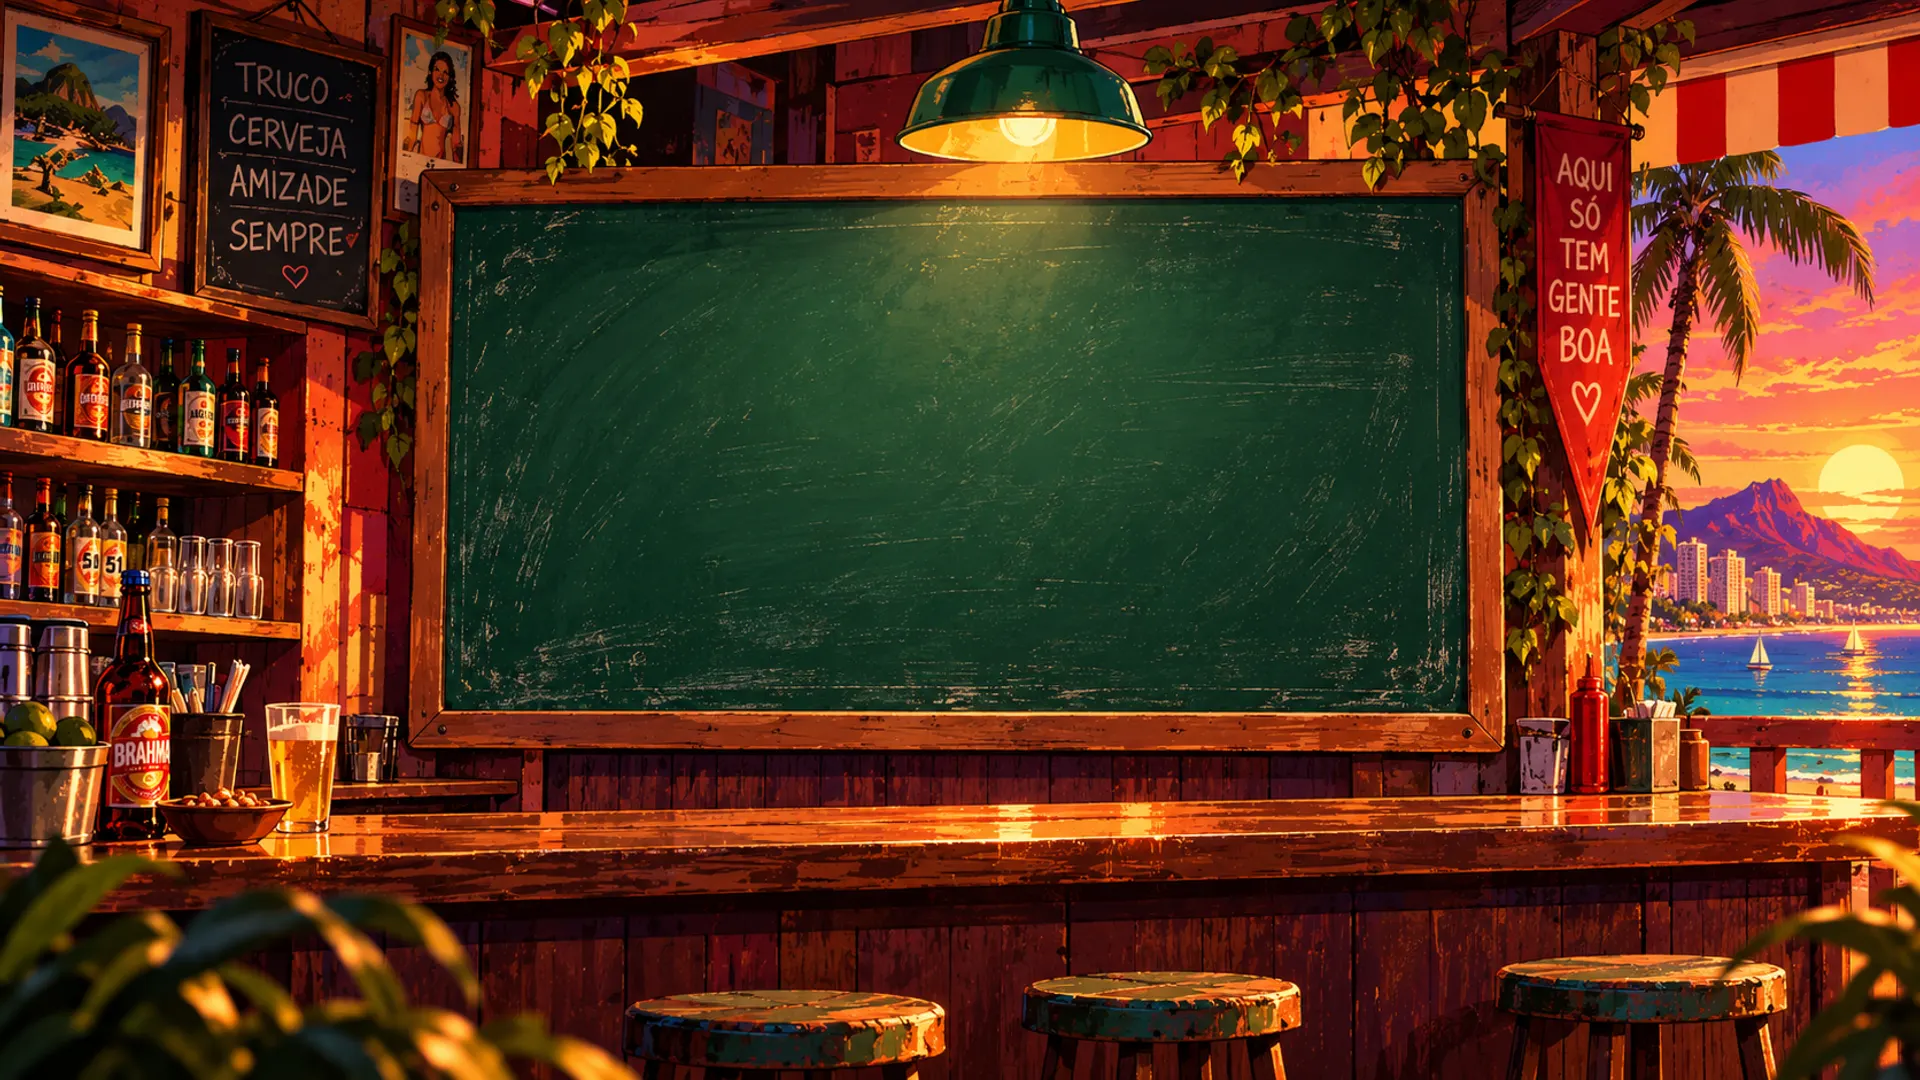
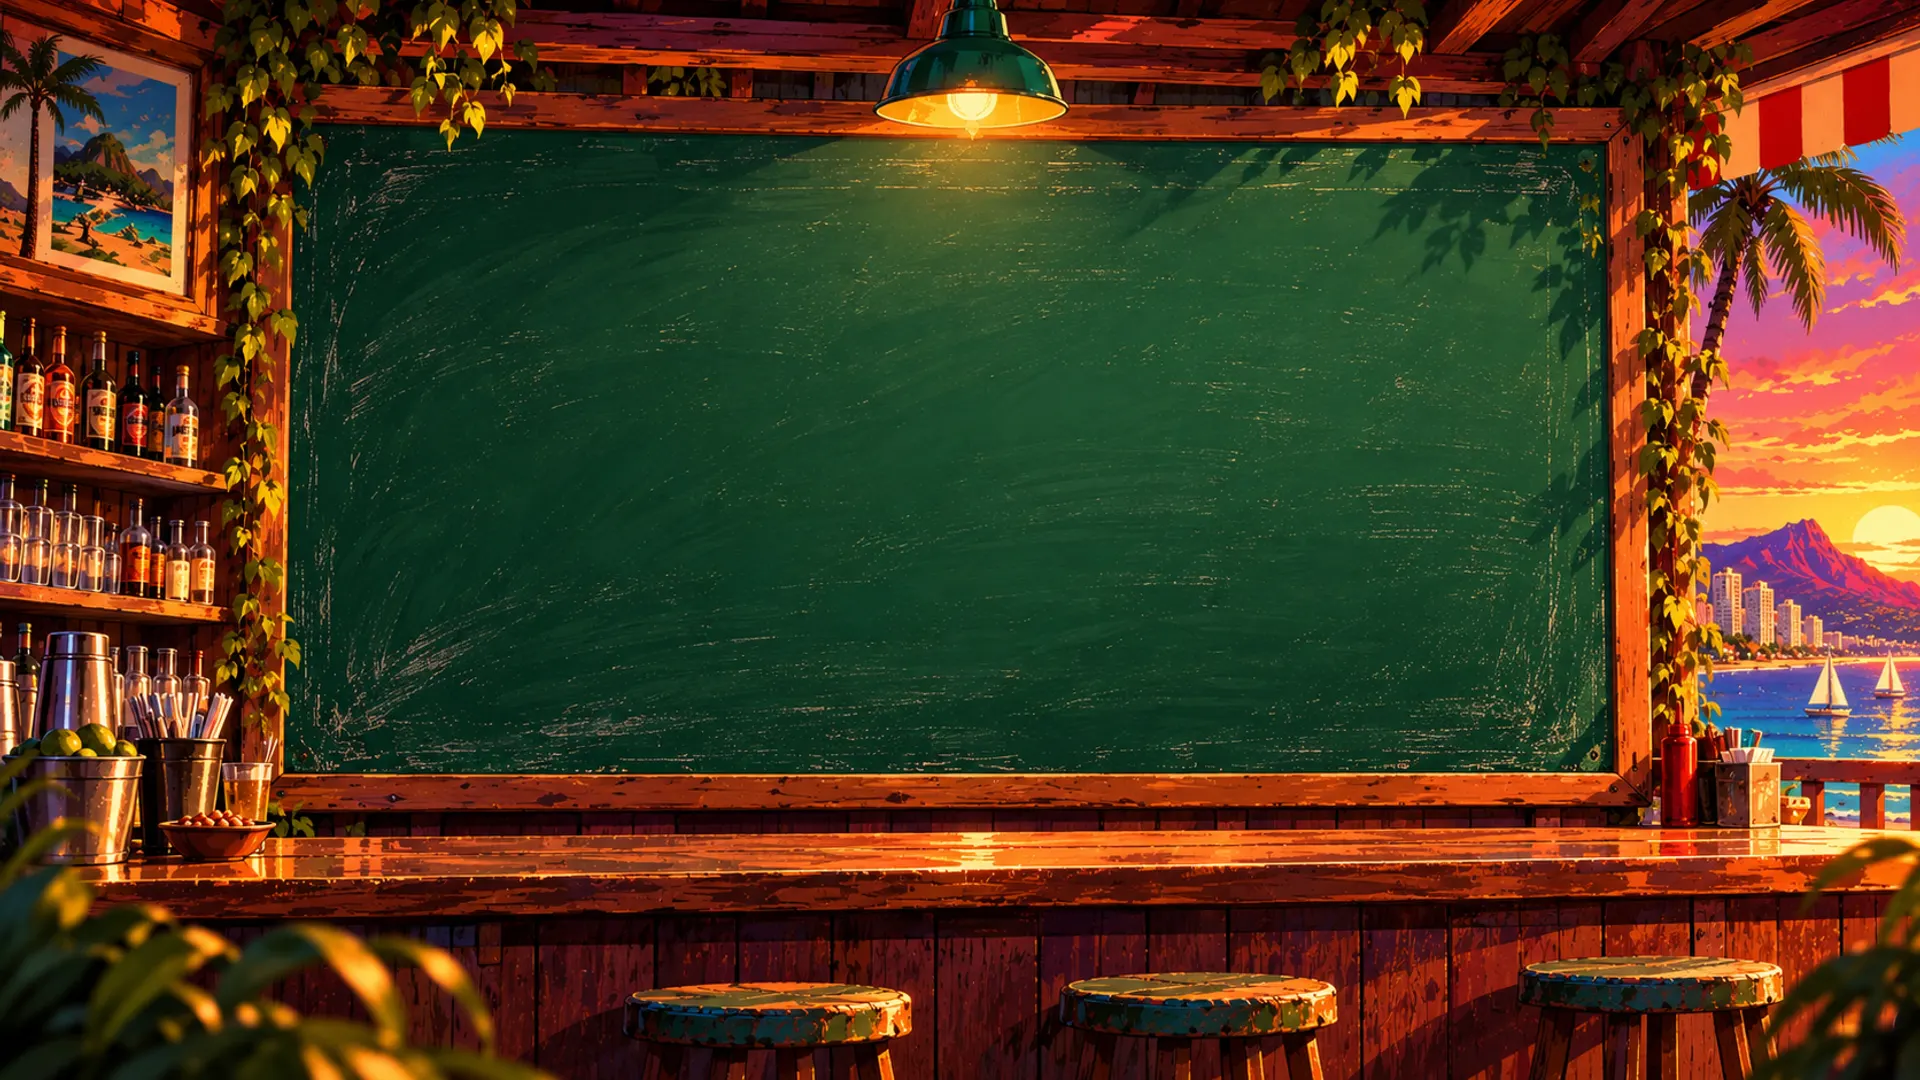
feat(art): menu-4 joins the main menu rotation; shop painting without the beer brand; darker backdrops
menu-4 is measured into BAKED_UI and loads late; BACKDROP_BRIGHTNESS 0.4 -> 0.3 (the shop keeps its own).

diff --git a/src/view/menu-backdrop.ts b/src/view/menu-backdrop.ts
@@ -1,7 +1,7 @@
 import type Phaser from 'phaser';
 import { comfort } from './comfort';
 
-const KEYS = ['img.bg.menu-1', 'img.bg.menu-2', 'img.bg.menu-3'] as const;
+const KEYS = ['img.bg.menu-1', 'img.bg.menu-2', 'img.bg.menu-3', 'img.bg.menu-4'] as const;
 /** Time each painting stays and the crossfade between two. */
 const HOLD_MS = 7000;
 const FADE_MS = 500;
@@ -27,6 +27,8 @@ export const BAKED_UI: readonly BakedUi[] = [
 	{ x: 57, top: 290, bottom: 782 },
 	{ x: 63, top: 326, bottom: 800 },
 	{ x: 58, top: 312, bottom: 779 },
+	// menu-4 (1671 px wide, scaled to 1600): it bakes 8 buttons; `bottom` is its 7th, like the others.
+	{ x: 50, top: 244, bottom: 668 },
 ];
 
 /** The game's button column, in the source px of the first painting (the fixed reference). */

diff --git a/src/scenes/BootScene.ts b/src/scenes/BootScene.ts
@@ -20,7 +20,7 @@ import { UI_FONT } from '../ui/font';
  * music.ts) and a picture keeps its drawn fallback, redrawn in place when it lands.
  */
 const LATER =
-	/^assets\/(audio\/(sfx|music)\/(amb\.(?!botecoBairro)|music\.king|vo\.(valentao|cartomante|juiz|agiota|delegado|reiDoTruco)\.)|gfx\/(card\/|bg\/(shop|partner|street|bg[4-6]|menu-[23])\.|back\/(?!default\.)))/;
+	/^assets\/(audio\/(sfx|music)\/(amb\.(?!botecoBairro)|music\.king|vo\.(valentao|cartomante|juiz|agiota|delegado|reiDoTruco)\.)|gfx\/(card\/|bg\/(shop|partner|street|bg[4-6]|menu-[2-4])\.|back\/(?!default\.)))/;
 
 /**
  * Loads the sounds; the art is drawn by code (src/art/flat.ts). Stays running after the first

diff --git a/src/config/palette.ts b/src/config/palette.ts
@@ -167,7 +167,7 @@ export function buttonHover(fill: number): number {
  * at full brightness): a multiply tint, so the sunset keeps its hue while panels, cards and HUD
  * stand out on it.
  */
-export const BACKDROP_BRIGHTNESS = 0.4;
+export const BACKDROP_BRIGHTNESS = 0.3;
 /** The shop's chalkboard holds the UI: its painting stays brighter than the other backdrops. */
 export const SHOP_BACKDROP_BRIGHTNESS = 0.75;
 

diff --git a/scripts/portraits.ts b/scripts/portraits.ts
@@ -130,6 +130,7 @@ const BACKGROUNDS: Record<string, string> = {
 	'menu-1': 'menu-1.jpeg',
 	'menu-2': 'menu-2.jpeg',
 	'menu-3': 'menu-3.jpeg',
+	'menu-4': 'menu-4.png',
 	shop: 'shop.jpeg',
 	partner: 'background-1.png',
 	street: 'background-2.png',
